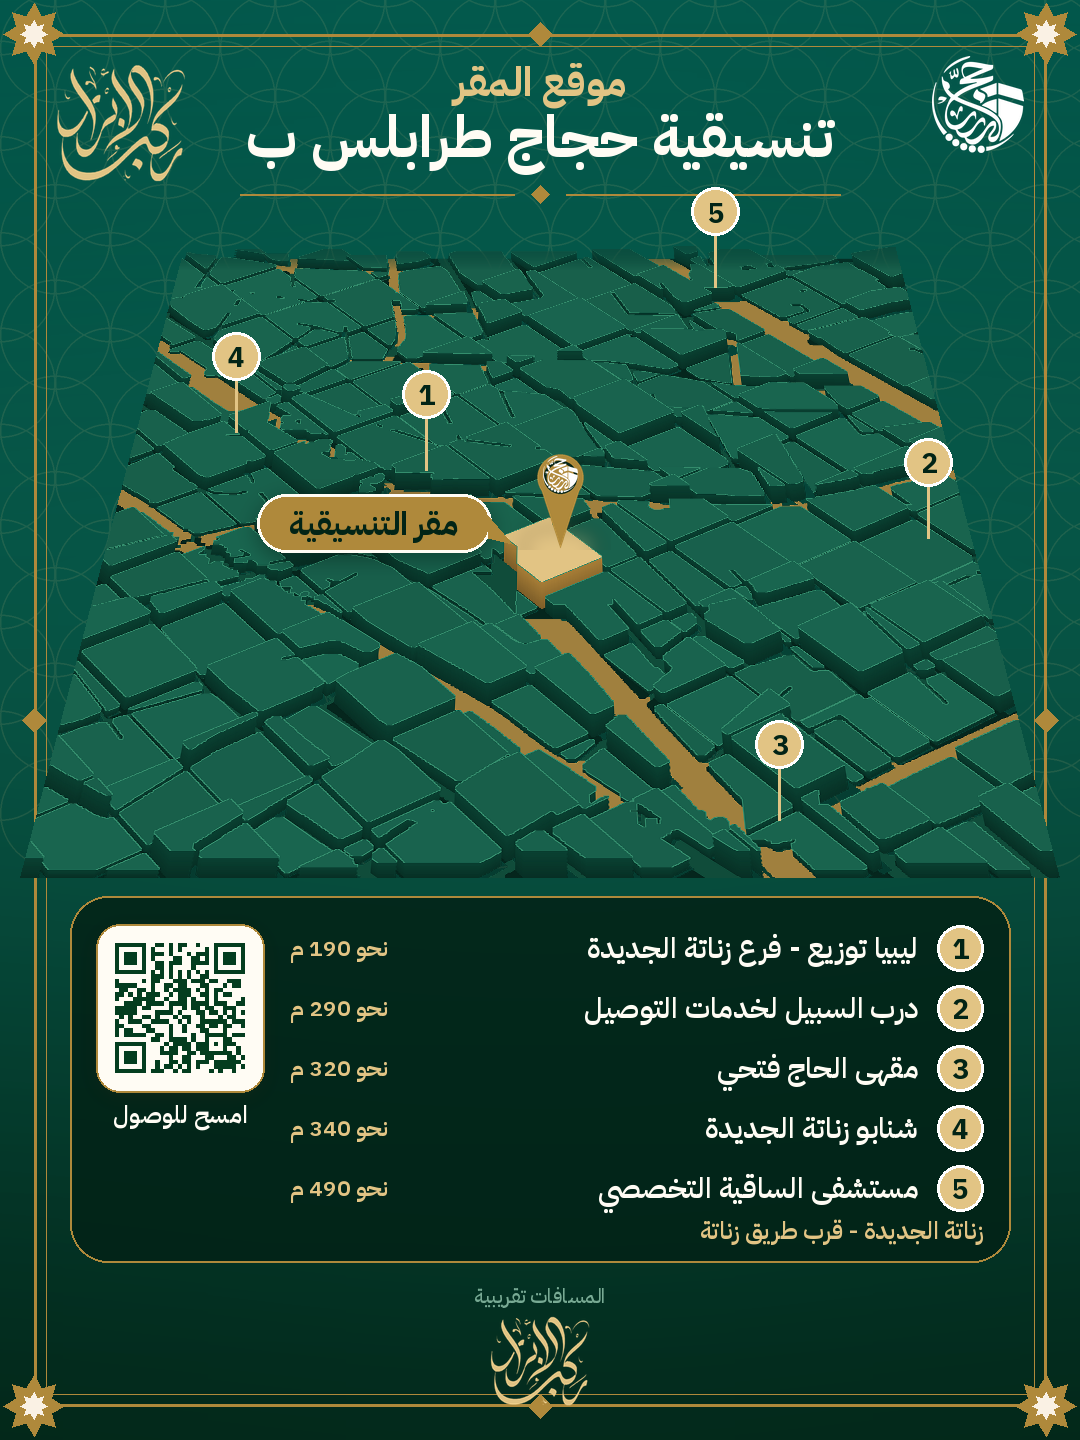
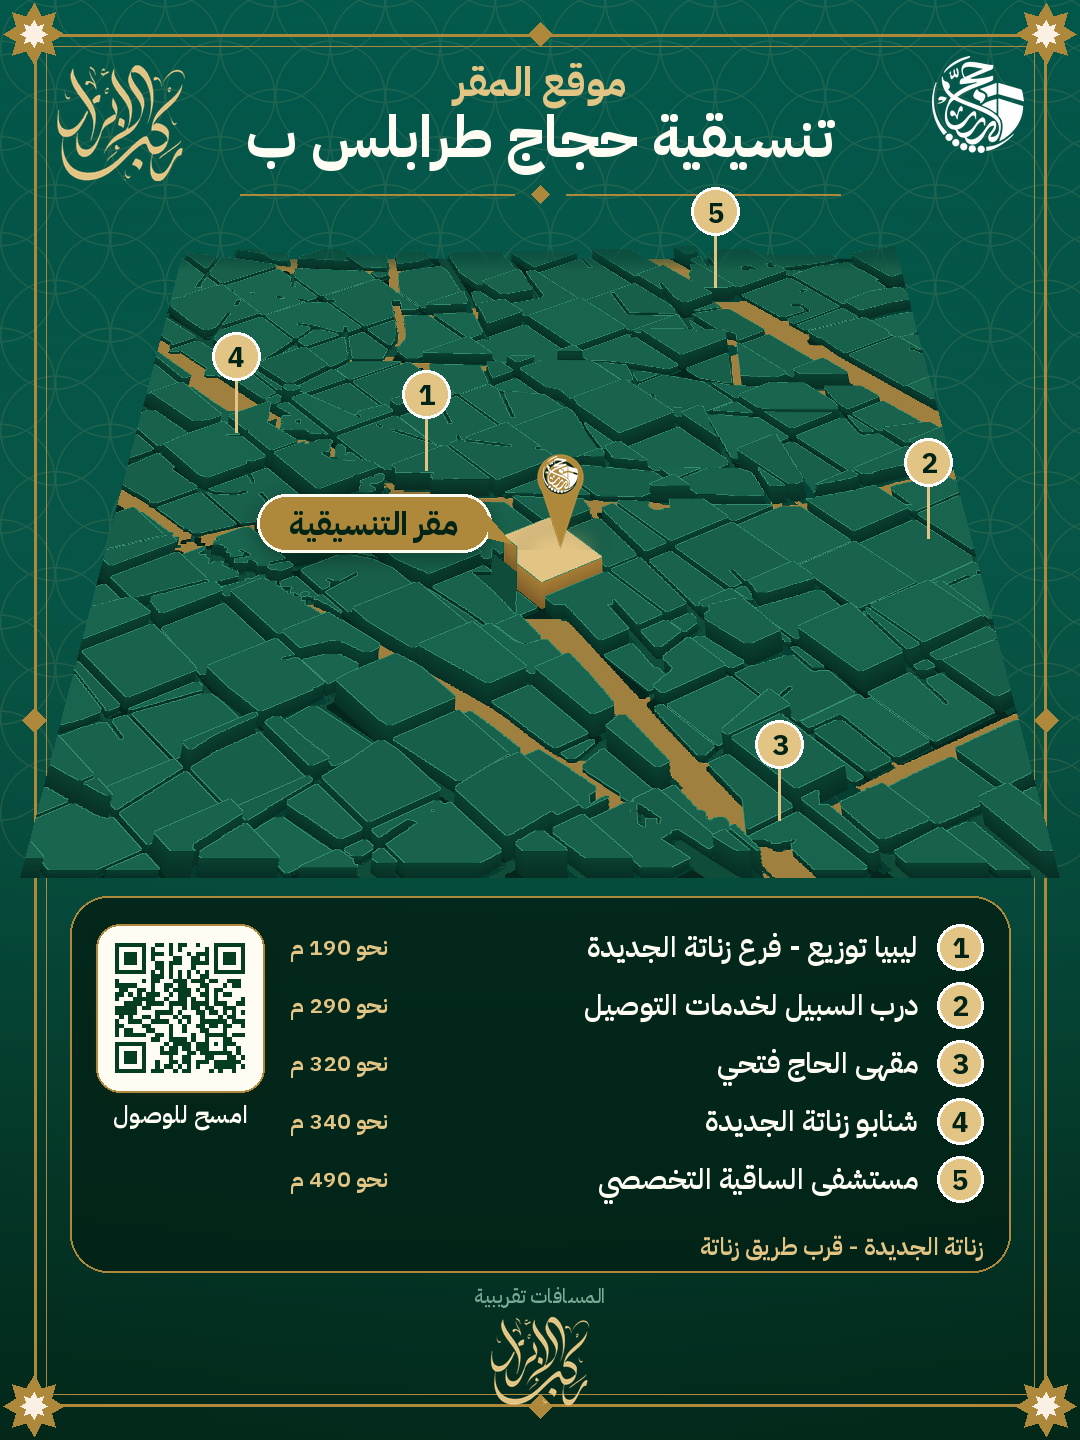
Location cards: spacing fixes
Claude-Session: https://claude.ai/code/session_0191y2EXY5dUDpfBFmNJAMrU

Changed region(s): [[0.55, 0.6562, 0.9167, 0.875], [0.275, 0.6875, 0.3667, 0.8438]]

diff --git a/identity_pack/make_location.py b/identity_pack/make_location.py
@@ -187,13 +187,13 @@ def card3():
     hx, hy, sz = iso_scene(img, ISO_DARK, 20, 200, 1040, dark=True)
     ml.pin(img, hx, hy - 30, 46, GOLD, ring=GREEN_DK, logo=asset("hajj_logo_white"), glow_rgb=GOLD_LT)
     callout(img, hx, hy + 40, "مقر التنسيقية", dark=True, side="left")
-    panel = (70, 896, W - 70, 1262)
+    panel = (70, 896, W - 70, 1272)
     lay = Image.new("RGBA", img.size, (0, 0, 0, 0)); ImageDraw.Draw(lay).rounded_rectangle(panel, 38, fill=(2, 34, 22, 218), outline=GOLD + (255,), width=2)
     img.paste(lay, (0, 0), lay)
-    legend(img, panel, dark=True, size=29, row=60, dist_x=290)
+    legend(img, panel, dark=True, size=29, row=58, dist_x=290)
     qr_plate(img, 96, panel[1] + 28, 140, "امسح للوصول", dark=True)
     d = ImageDraw.Draw(img)
-    d.text((W - 96, 1230), AREA, font=font(600, 24), fill=GOLD_LT, anchor="rm", direction="rtl", language="ar")
+    d.text((W - 96, 1246), AREA, font=font(600, 24), fill=GOLD_LT, anchor="rm", direction="rtl", language="ar")
     d.text((W / 2, 1296), NOTE, font=font(500, 20), fill=(120, 170, 148), anchor="mm", direction="rtl", language="ar")
     logo(img, "rakb_gold", (W - 100) // 2, 1316, w=100, rgb=GOLD_LT)
     return img
